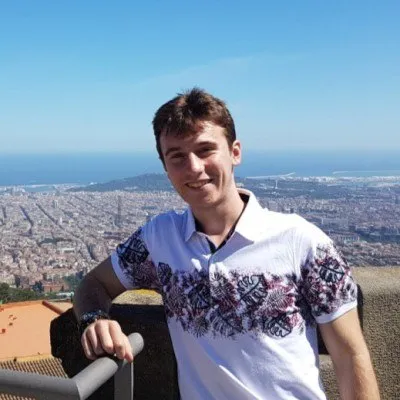
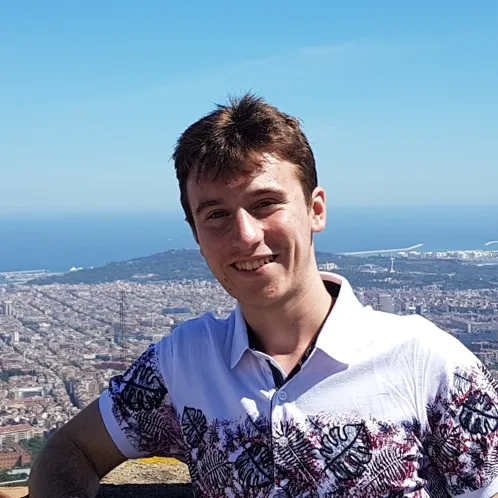
New higher-resolution profile photo with responsive srcset

diff --git a/src/sections/About.tsx b/src/sections/About.tsx
@@ -39,12 +39,16 @@ export default function About() {
             <Reveal className="about__media">
               <figure className="portrait">
                 <div className="portrait__frame">
-                  {/* The original portrait is 400px, so the 480 variant is the full-res WebP */}
+                  {/* The original portrait is a 498px square: the 720 variant is that full-res
+                      file (never upscaled), the 480 one serves plain 1x screens. The frame is
+                      at most ~400px wide, so 2x/3x screens pick the full-res file. */}
                   <img
-                    src={imgSrc(profile.photo, 480)}
+                    src={imgSrc(profile.photo, 720)}
+                    srcSet={`${imgSrc(profile.photo, 480)} 480w, ${imgSrc(profile.photo, 720)} 498w`}
+                    sizes="(min-width: 1024px) 400px, 340px"
                     alt={t('about.portraitAlt', { name: profile.name })}
-                    width={400}
-                    height={400}
+                    width={498}
+                    height={498}
                     loading="lazy"
                     decoding="async"
                   />
